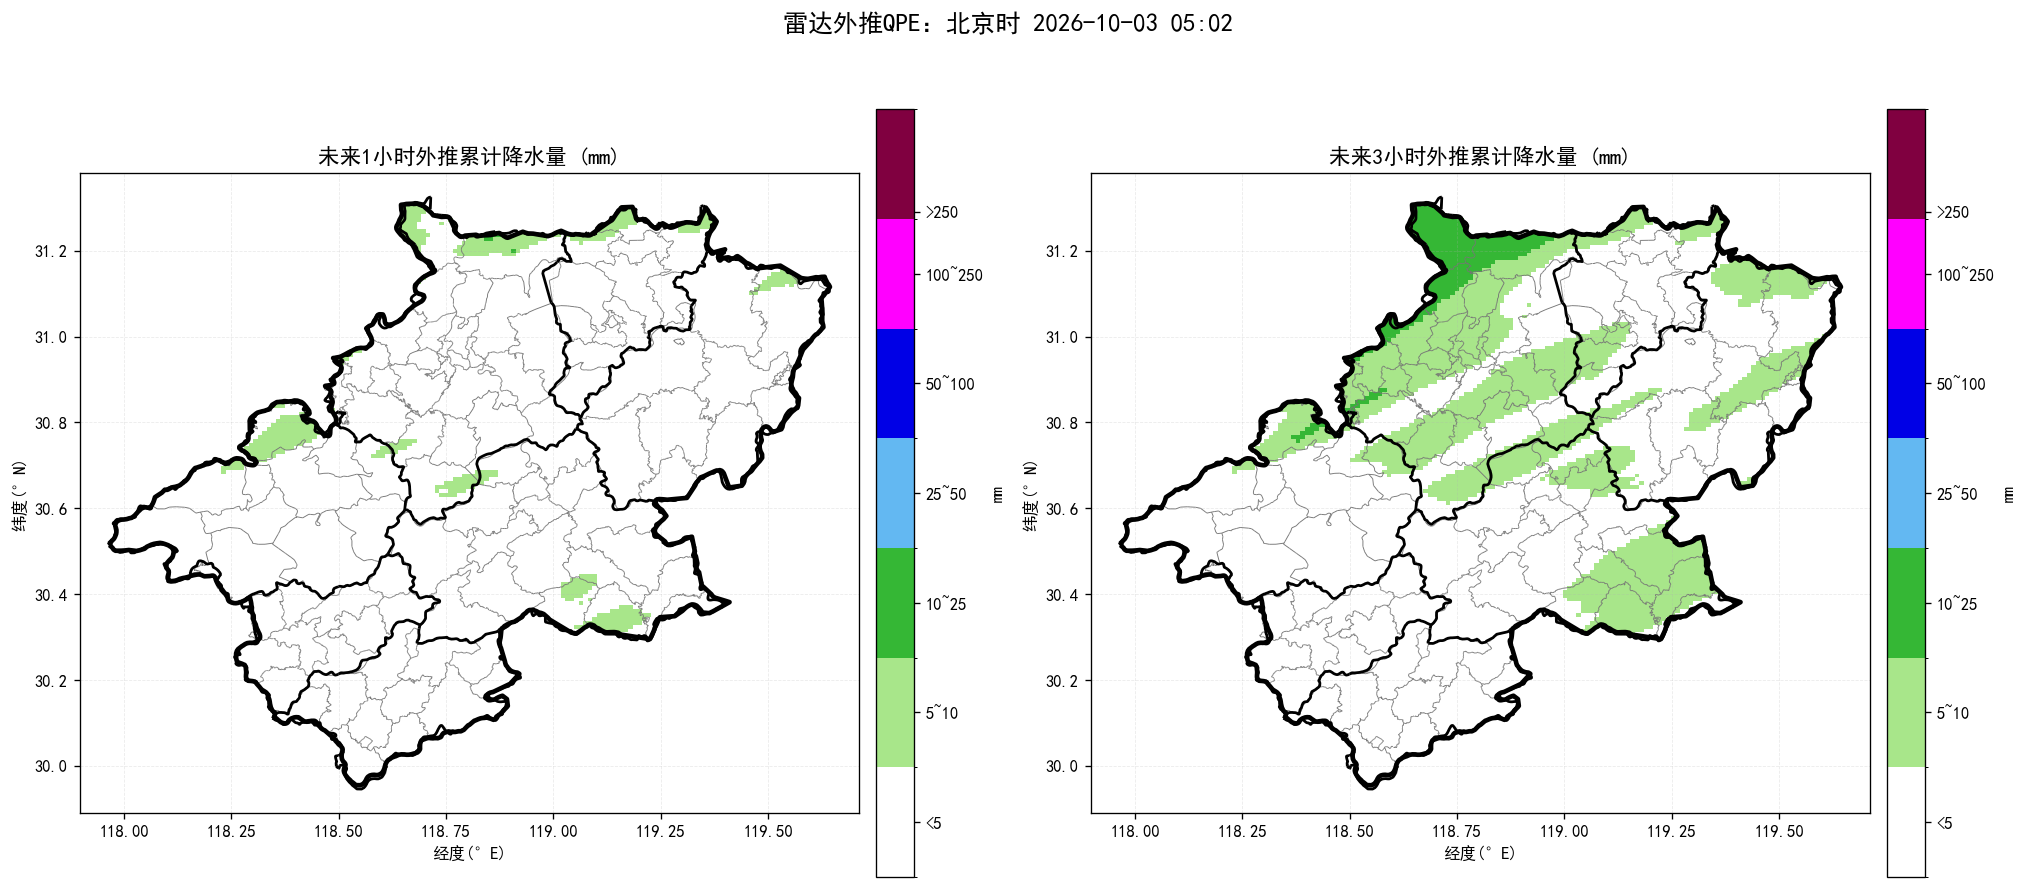
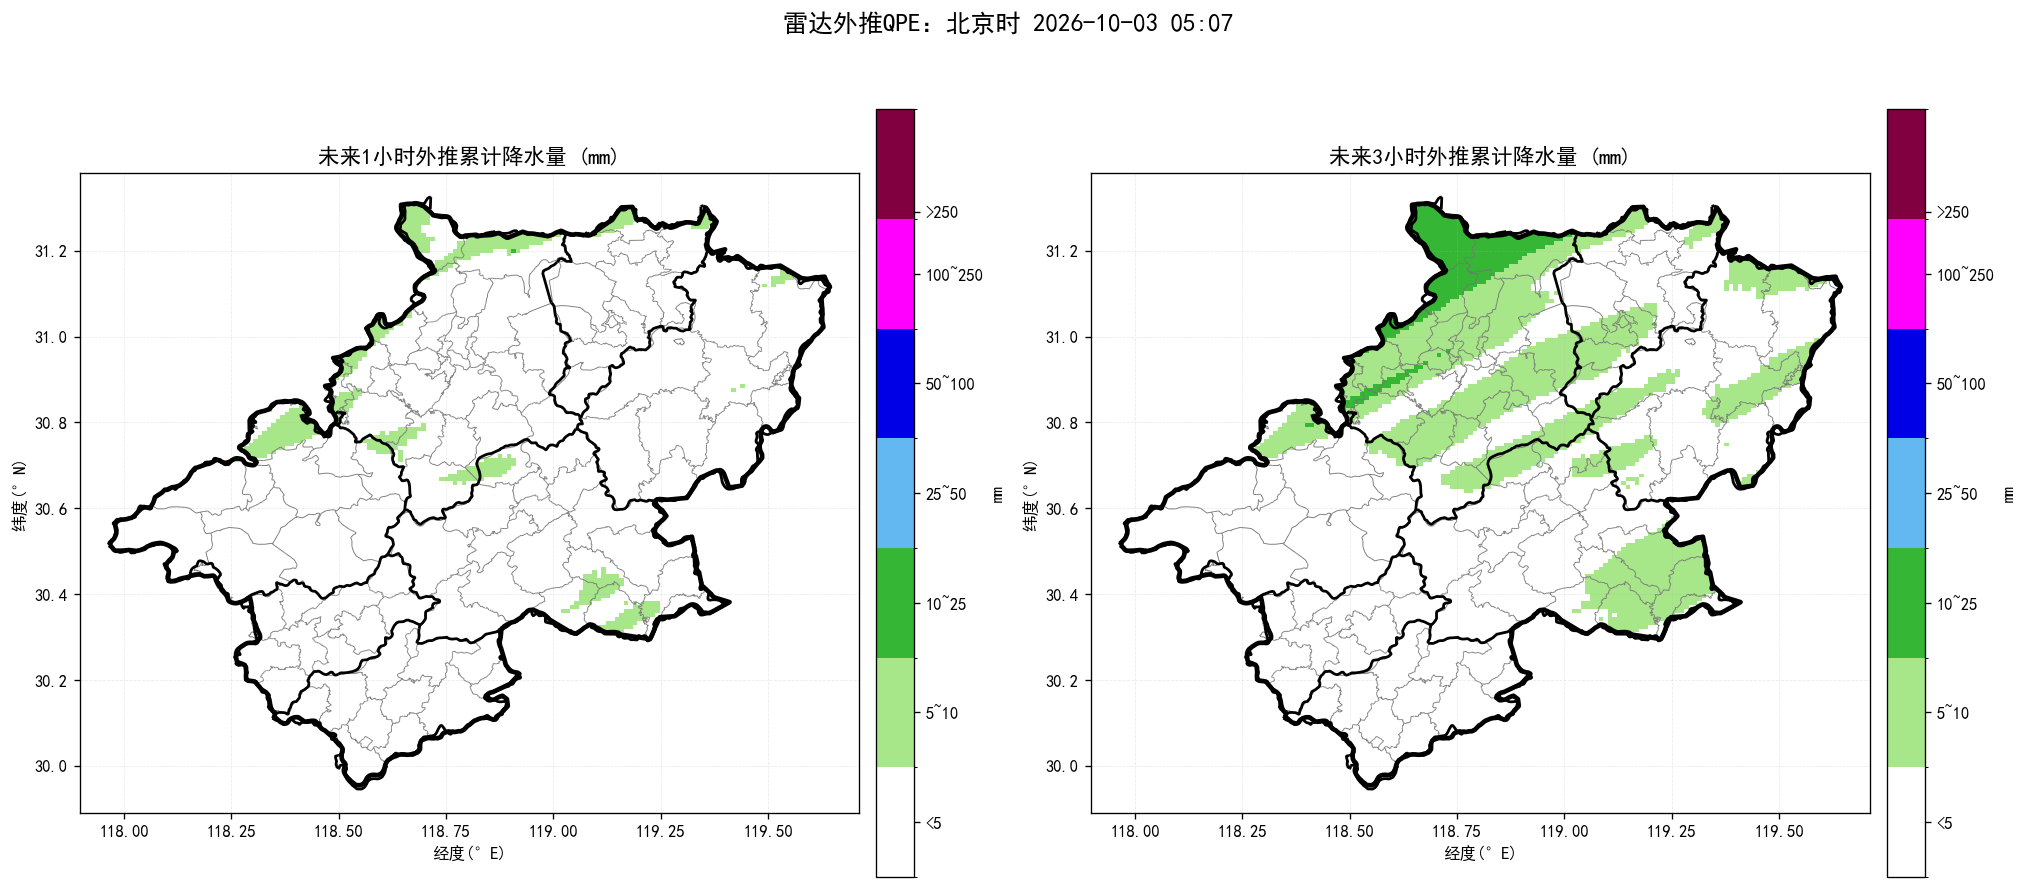
update nowcast products

diff --git a/index.html b/index.html
@@ -14,14 +14,14 @@ img.product{display:block;width:100%;height:auto;margin:10px auto 26px;border:1p
 .footer{font-size:13px;color:#777;text-align:center;margin-top:30px}
 @media(max-width:700px){.sheet{margin:0;padding:18px 15px}.alert-title{font-size:22px}.county-line{font-size:17px}.prob{font-size:18px}}
 </style></head><body><main class="sheet">
-<div class="time">起报时间：北京时 2026-10-03 05:02</div>
+<div class="time">起报时间：北京时 2026-10-03 05:07</div>
 <div class="alert-title">未来一小时降水量超过 20 毫米的乡镇：</div><div class="county-line">无</div>
 <div class="alert-title">未来三小时降水量超过 50 毫米的乡镇：</div><div class="county-line">无</div>
 <div class="alert-title">未来三小时雷暴大风（组合反射率 > 55 dBZ）的乡镇：</div><div class="county-line">无</div>
-<div class="prob">最大降水量概率预估：宣城市范围内未来三小时降水偏小，最大预报约19.6毫米，暂不进行50/80/100毫米概率预估。</div>
-<div class="section-title">未来降水预报图：</div><img class="product auto-refresh-product" data-src="短临降水预报.png" src="短临降水预报.png?v=20261003050750" alt="未来降水预报图">
-<div class="section-title">未来三小时组合反射率图：</div><img class="product auto-refresh-product" data-src="未来3小时组合反射率.png" src="未来3小时组合反射率.png?v=20261003050750" alt="未来三小时组合反射率图">
-<div class="section-title">未来三小时雷暴大风图：</div><img class="product auto-refresh-product" data-src="未来3小时雷暴大风.png" src="未来3小时雷暴大风.png?v=20261003050750" alt="未来三小时雷暴大风图">
+<div class="prob">最大降水量概率预估：宣城市范围内未来三小时降水偏小，最大预报约18.7毫米，暂不进行50/80/100毫米概率预估。</div>
+<div class="section-title">未来降水预报图：</div><img class="product auto-refresh-product" data-src="短临降水预报.png" src="短临降水预报.png?v=20261003051330" alt="未来降水预报图">
+<div class="section-title">未来三小时组合反射率图：</div><img class="product auto-refresh-product" data-src="未来3小时组合反射率.png" src="未来3小时组合反射率.png?v=20261003051330" alt="未来三小时组合反射率图">
+<div class="section-title">未来三小时雷暴大风图：</div><img class="product auto-refresh-product" data-src="未来3小时雷暴大风.png" src="未来3小时雷暴大风.png?v=20261003051330" alt="未来三小时雷暴大风图">
 <div class="footer">三张产品图每 60 秒自动刷新一次；每次请求自动附加新的URL参数以绕过缓存。</div>
 <script>
 (function() {
